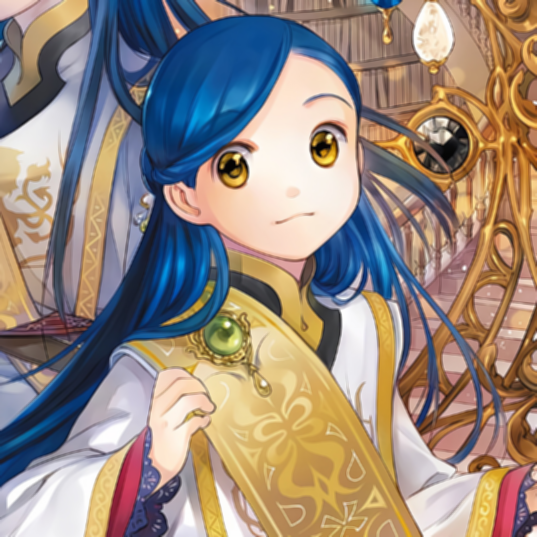
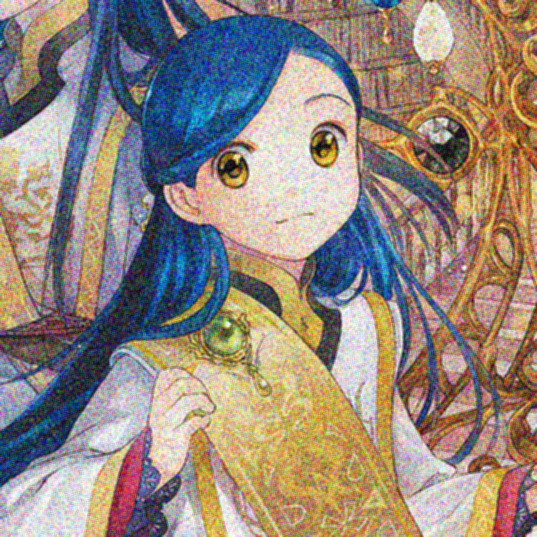
chega

diff --git a/Trabalho Filtragem Espacial/__main__.py b/Trabalho Filtragem Espacial/__main__.py
@@ -3,7 +3,7 @@ import cv2 as cv
 import numpy as np
 
 # PATHING DAS IMAGES
-INPUT_IMAGE = 'rozemyne.png'
+INPUT_IMAGE = 'rozenoise.png'
 OUTPUT_FOLDER = 'outputs'
 
 MEAN_PIXELS = 3
@@ -115,18 +115,20 @@ if __name__ == '__main__':
     # image has color
     input_image = cv.imread(INPUT_IMAGE, cv.IMREAD_COLOR)
 
-    # mean_image = mean_filter(input_image)
-    # cv.imwrite(f'{OUTPUT_FOLDER}/mean_image.png', mean_image)
-    #
-    # weighted_mean_image = weighted_mean_filter(input_image)
-    # cv.imwrite(f'{OUTPUT_FOLDER}/weighted_mean_image.png', weighted_mean_image)
+    mean_image = mean_filter(input_image)
+    cv.imwrite(f'{OUTPUT_FOLDER}/mean_image.png', mean_image)
+
+    weighted_mean_image = weighted_mean_filter(input_image)
+    cv.imwrite(f'{OUTPUT_FOLDER}/weighted_mean_image.png', weighted_mean_image)
 
     edge = sobel_filter(input_image)
     edge = np.array(edge, dtype=np.uint8)
 
     new_image = cv.add(edge, input_image)
 
-    enhanced_image = cv.addWeighted(input_image, 0.9, edge, 0.1, 0)
+    cv.imwrite(f'{OUTPUT_FOLDER}/sobel_filter.png', edge)
+
+    enhanced_image = cv.addWeighted(input_image, 0.7, edge, 0.3, 0)
 
     cv.imwrite(f'{OUTPUT_FOLDER}/sobel.png', enhanced_image)
 
